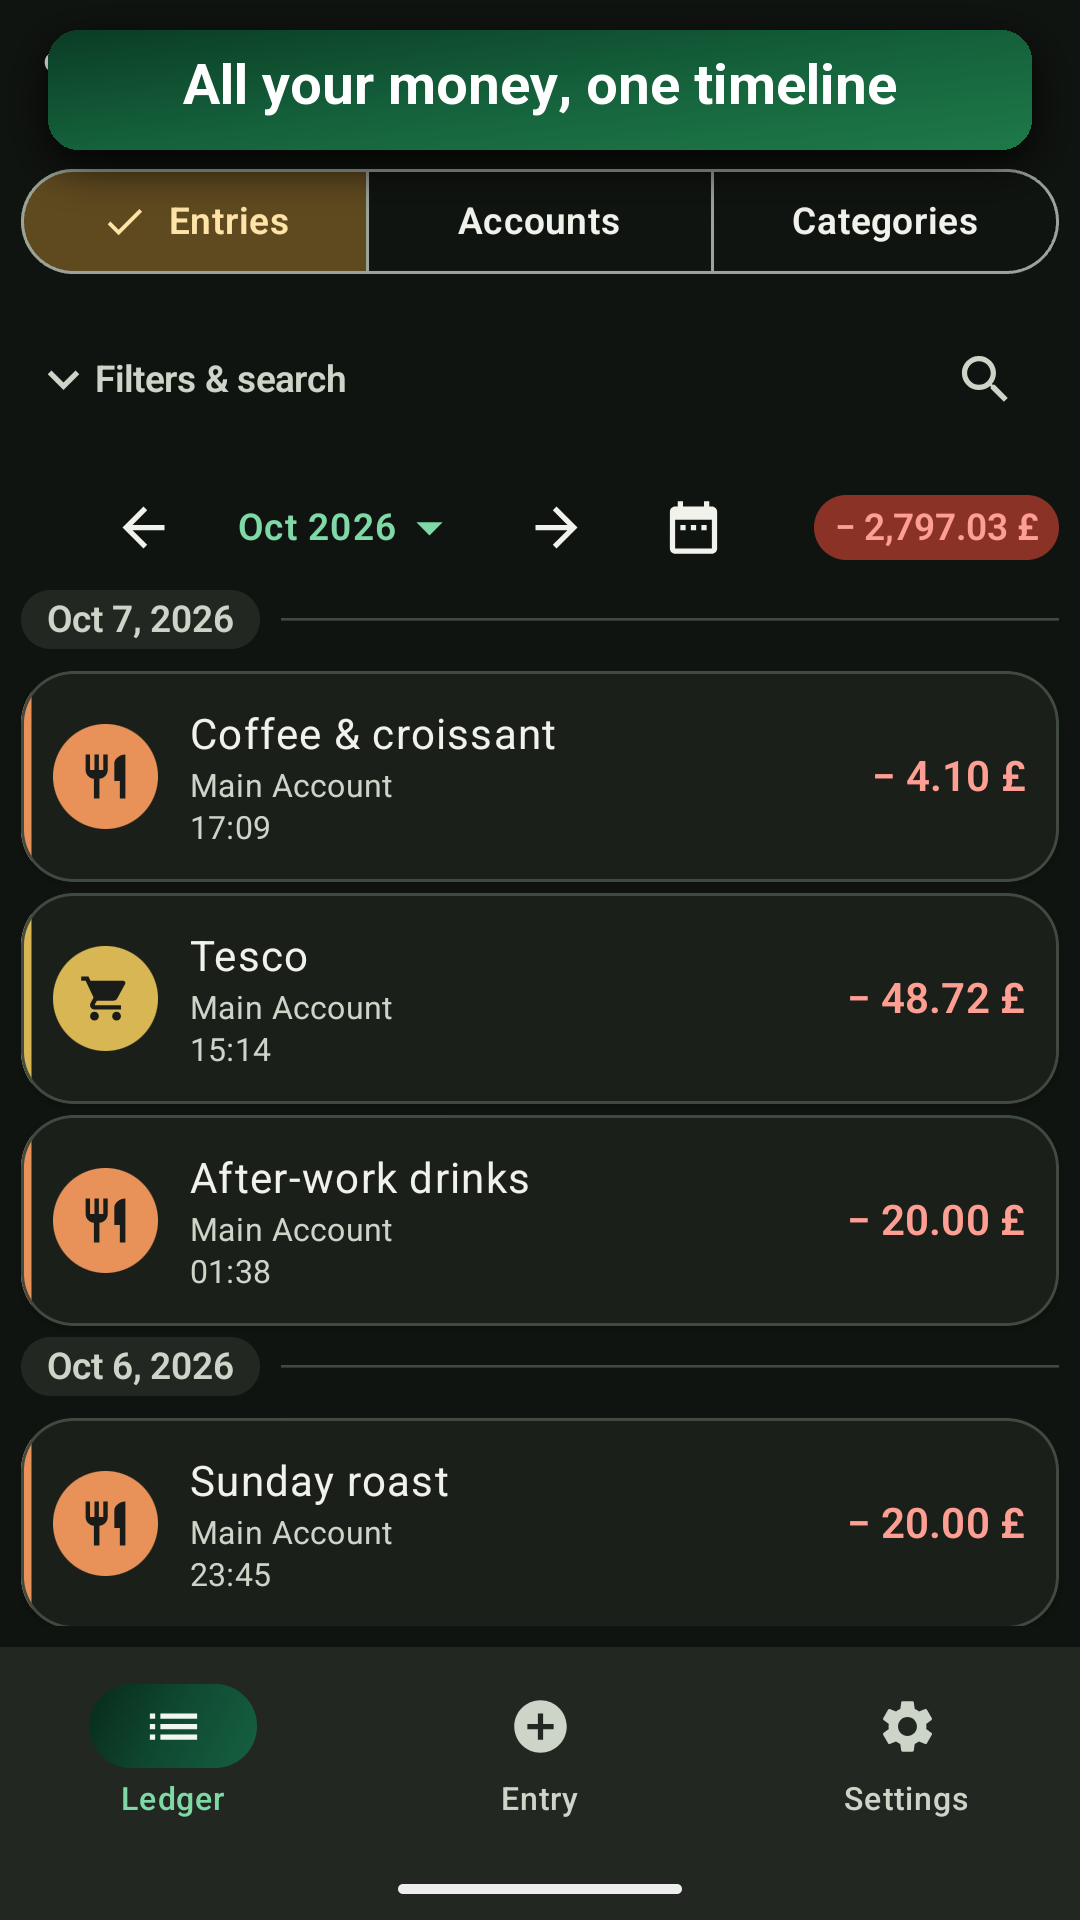
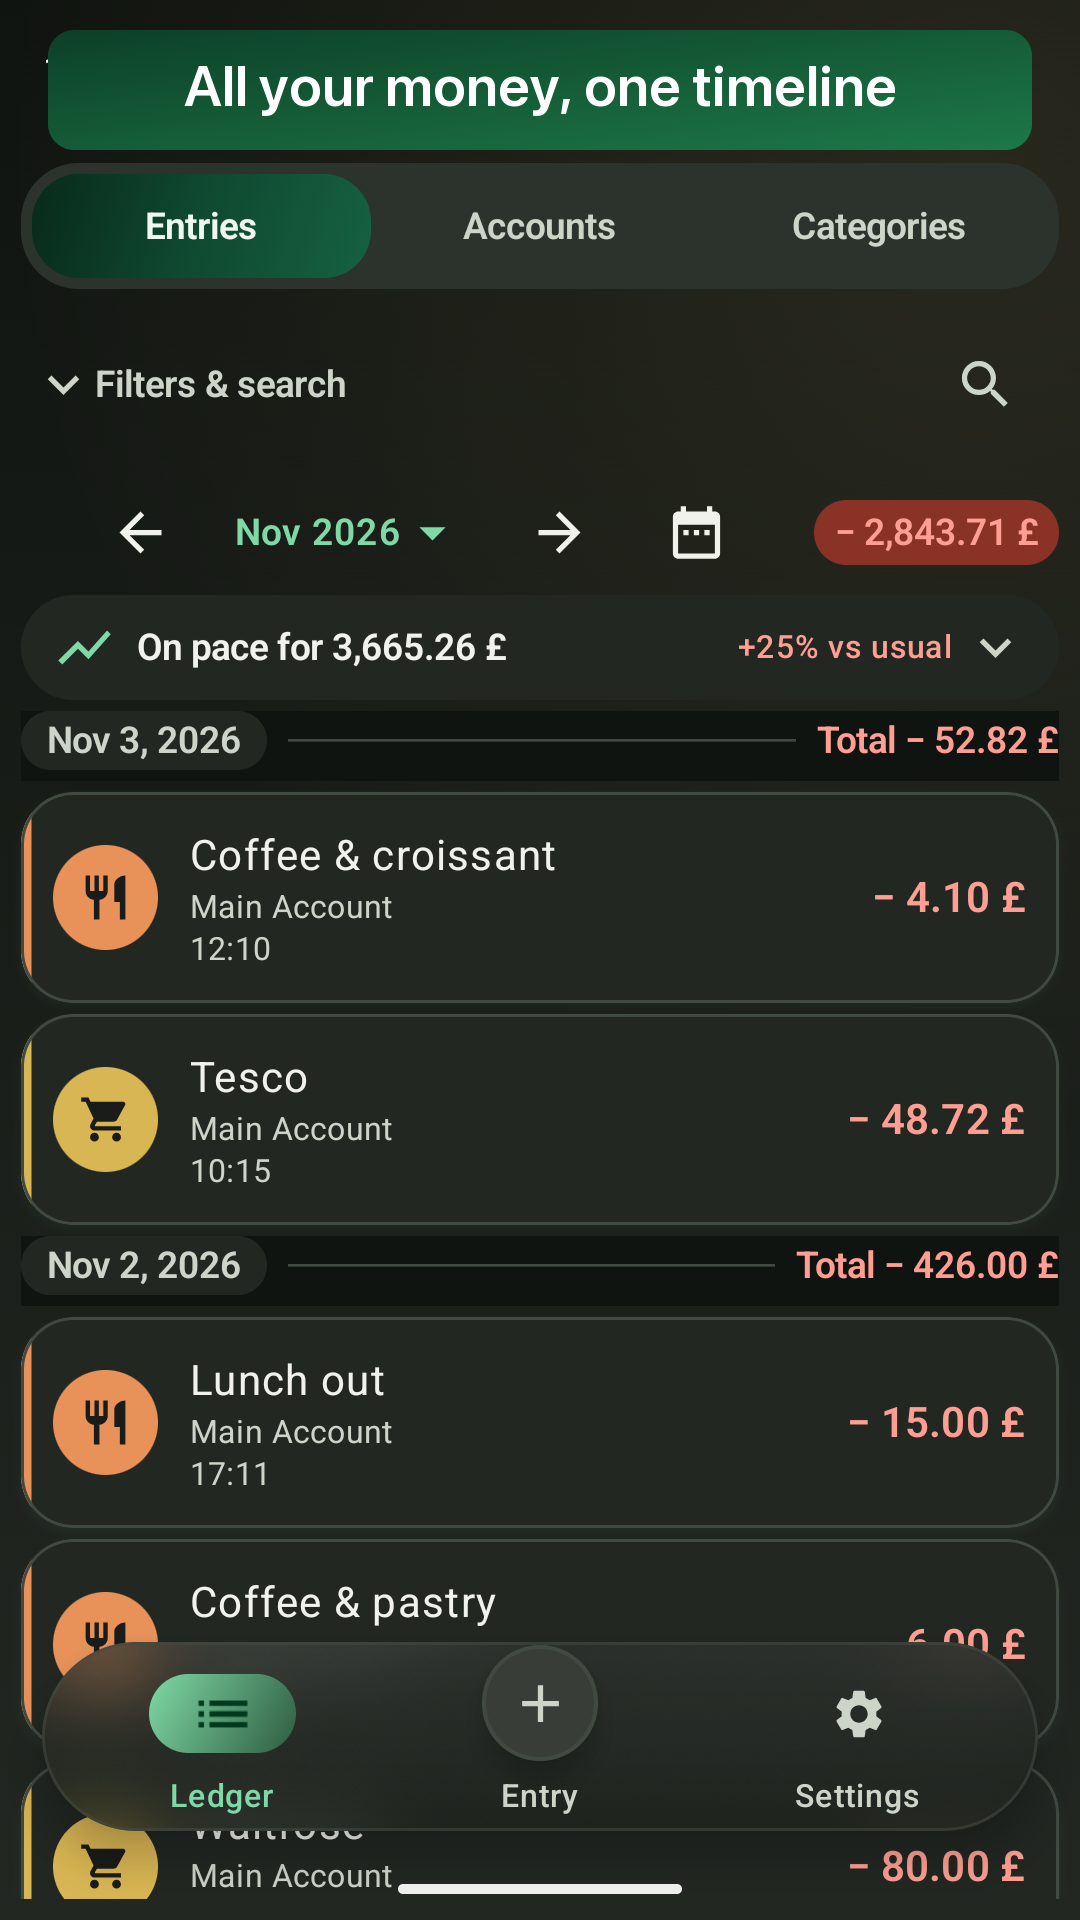
docs(store): refresh screenshots and add payment capture shot

diff --git a/scripts/store-captions.py b/scripts/store-captions.py
@@ -1,0 +1,136 @@
+#!/usr/bin/env python3
+"""Overlay the Play Store caption strip on raw 1080x1920 Linden screenshots.
+
+Capture the raw screens with `adb exec-out screencap -p`, name them as listed in
+CAPTIONS below, put them in one directory, then run:
+
+    python3 scripts/store-captions.py <raw-dir> [<out-dir>]
+
+The output defaults to docs/store-assets/screenshots. Requires Pillow.
+"""
+import argparse
+import os
+import sys
+
+from PIL import Image, ImageDraw, ImageFont
+
+CAPTIONS = {
+    "screen-1-ledger-entries.png": "All your money, one timeline",
+    "screen-2-payment-capture.png": "Automatic payment capture",
+    "screen-3-entry-calculator.png": "Add entries in seconds",
+    "screen-4-ledger-accounts.png": "Track accounts in any currency",
+    "screen-5-ledger-categories.png": "Know where it goes",
+    "screen-6-insights.png": "12 months at a glance",
+}
+
+WIDTH, HEIGHT = 1080, 1920
+LEFT, TOP, BOX_WIDTH, BOX_HEIGHT, RADIUS = 48, 30, 984, 120, 26
+TEXT_SIZE = 57
+SAMPLE_SCALE = 4
+GRADIENT_START = (12, 64, 39)
+GRADIENT_END = (29, 120, 72)
+
+
+def load_font(size):
+    candidates = [
+        ("/System/Library/Fonts/SFNS.ttf", None, "Semibold"),
+        ("/System/Library/Fonts/HelveticaNeue.ttc", 1, None),
+        ("/System/Library/Fonts/Helvetica.ttc", 1, None),
+        ("/usr/share/fonts/truetype/dejavu/DejaVuSans-Bold.ttf", None, None),
+        ("/System/Library/Fonts/Supplemental/Arial Bold.ttf", None, None),
+    ]
+    for path, index, variation in candidates:
+        if not os.path.exists(path):
+            continue
+        font = ImageFont.truetype(path, size, index=index or 0)
+        if variation:
+            try:
+                font.set_variation_by_name(variation)
+            except OSError:
+                pass
+        return font
+    return ImageFont.load_default(size)
+
+
+def lerp(a, b, t):
+    return tuple(round(a[i] + (b[i] - a[i]) * t) for i in range(3))
+
+
+def build_gradient():
+    gradient = Image.new("RGB", (BOX_WIDTH, BOX_HEIGHT))
+    pixels = gradient.load()
+    for y in range(BOX_HEIGHT):
+        for x in range(BOX_WIDTH):
+            t = (x / (BOX_WIDTH - 1) + y / (BOX_HEIGHT - 1)) / 2
+            pixels[x, y] = lerp(GRADIENT_START, GRADIENT_END, t)
+    return gradient
+
+
+def build_mask():
+    mask = Image.new("L", (BOX_WIDTH * SAMPLE_SCALE, BOX_HEIGHT * SAMPLE_SCALE), 0)
+    ImageDraw.Draw(mask).rounded_rectangle(
+        (0, 0, BOX_WIDTH * SAMPLE_SCALE - 1, BOX_HEIGHT * SAMPLE_SCALE - 1),
+        radius=RADIUS * SAMPLE_SCALE,
+        fill=255,
+    )
+    return mask.resize((BOX_WIDTH, BOX_HEIGHT), Image.LANCZOS)
+
+
+def copy_background_over_status_icons(image):
+    """The caption covers the status bar; clean up any pixel peeking out beside it."""
+    pixels = image.load()
+    for y in range(TOP, TOP + BOX_HEIGHT):
+        for x in list(range(LEFT)) + list(range(LEFT + BOX_WIDTH, WIDTH)):
+            red, green, blue = pixels[x, y]
+            if red > 120 and green > 120 and blue > 120:
+                source = LEFT - 1 if x < LEFT else LEFT + BOX_WIDTH
+                pixels[x, y] = pixels[source, y]
+
+
+def overlay(raw_path, out_path, font, gradient, mask):
+    image = Image.open(raw_path).convert("RGB")
+    if image.size != (WIDTH, HEIGHT):
+        raise SystemExit(f"{raw_path}: expected {WIDTH}x{HEIGHT}, got {image.size[0]}x{image.size[1]}")
+
+    copy_background_over_status_icons(image)
+    image.paste(gradient, (LEFT, TOP), mask)
+
+    draw = ImageDraw.Draw(image)
+    caption = CAPTIONS[os.path.basename(raw_path)]
+    bbox = draw.textbbox((0, 0), caption, font=font)
+    if bbox[2] - bbox[0] > BOX_WIDTH - 56:
+        raise SystemExit(f"{caption!r} is too wide for the caption strip")
+    x = LEFT + BOX_WIDTH / 2 - (bbox[0] + bbox[2]) / 2
+    y = TOP + BOX_HEIGHT / 2 - (bbox[1] + bbox[3]) / 2 + 1
+    draw.text((x, y), caption, font=font, fill=(255, 255, 255))
+
+    image.save(out_path, format="PNG", optimize=True)
+    print(f"{out_path} ({image.size[0]}x{image.size[1]}, RGB)")
+
+
+def main():
+    parser = argparse.ArgumentParser(description=__doc__)
+    parser.add_argument("raw_dir", help="directory containing the raw screen captures")
+    parser.add_argument("out_dir", nargs="?", default="docs/store-assets/screenshots",
+                        help="output directory (default: docs/store-assets/screenshots)")
+    args = parser.parse_args()
+
+    os.makedirs(args.out_dir, exist_ok=True)
+    font = load_font(TEXT_SIZE)
+    gradient = build_gradient()
+    mask = build_mask()
+
+    missing = 0
+    for name in CAPTIONS:
+        raw_path = os.path.join(args.raw_dir, name)
+        if not os.path.exists(raw_path):
+            print(f"missing: {raw_path}", file=sys.stderr)
+            missing += 1
+            continue
+        overlay(raw_path, os.path.join(args.out_dir, name), font, gradient, mask)
+    if missing:
+        raise SystemExit(f"{missing} raw screenshot(s) missing")
+
+
+if __name__ == "__main__":
+    main()

diff --git a/scripts/linden-seed-demo.py b/scripts/linden-seed-demo.py
@@ -7,8 +7,13 @@ the USD pot), US trips, a December bonus and the occasional reverse conversion.
 
 Idempotent: re-running replaces all rows. No backups are made (caller keeps copies).
 Nothing is ever dated after "now", so the app never enters its hidden-future state.
+
+Pass --capture-demo to also seed a pending Monzo payment and pin the dark theme;
+that is the state used for the Play Store screenshot set.
 """
+import argparse
 import datetime as dt
+import json
 import os
 import random
 import sqlite3
@@ -318,7 +323,35 @@ def build():
 
 
 # ------------------------------------------------------------------- insert --
+def seed_capture_demo(cur):
+    """Add one reviewable Monzo payment and the dark theme used for screenshots."""
+    captured = NOW.replace(hour=8, minute=12, second=0, microsecond=0)
+    rule = [{"packageName": "com.monzo.android", "accountId": MAIN, "enabled": True}]
+    pending = [{
+        "id": 1,
+        "packageName": "com.monzo.android",
+        "amountMinor": cents(8.45),
+        "currency": None,
+        "description": "Pret A Manger",
+        "type": "Expense",
+        "capturedAtMillis": int(captured.timestamp() * 1000),
+        "capturedAtZoneId": "Europe/London",
+    }]
+    for key, value in {
+        "captureRules": json.dumps(rule),
+        "pendingCaptures": json.dumps(pending),
+        "captureSeenId": "0",
+        "theme": "DARK",
+    }.items():
+        cur.execute("INSERT OR REPLACE INTO AppSettingsEntity (key, value) VALUES (?, ?)",
+                    (key, value))
+
+
 def main():
+    parser = argparse.ArgumentParser(description=__doc__)
+    parser.add_argument("--capture-demo", action="store_true",
+                        help="seed a pending payment capture and the dark theme")
+    args = parser.parse_args()
     build()
     # Safety net: never store anything after "now".
     now_ms = int(NOW.timestamp() * 1000)
@@ -354,6 +387,8 @@ def main():
                        ("hideLedgerTotal", "false"), ("hideEntryTotal", "false")]:
         cur.execute("INSERT OR REPLACE INTO AppSettingsEntity (key, value) VALUES (?, ?)",
                     (key, value))
+    if args.capture_demo:
+        seed_capture_demo(cur)
 
     # FX rates: GBP base (the default currency). Fresh fetchedAt so startup does
     # not try to refresh and risk a warning banner mid-screenshot.

diff --git a/docs/store-assets/README.md b/docs/store-assets/README.md
@@ -48,11 +48,21 @@ The committed set (`screenshots/`, 1080 × 1920, 24-bit PNG without alpha). Each
 carries its caption as an overlay:
 
 1. `screen-1-ledger-entries.png` — Ledger entries — "All your money, one timeline"
-2. `screen-2-entry-calculator.png` — amount calculator — "Add entries in seconds"
-3. `screen-3-ledger-accounts.png` — accounts and currencies — "Track accounts in any currency"
-4. `screen-4-ledger-categories.png` — category totals — "Know where it goes"
-5. `screen-5-insights.png` — 12-month trend — "12 months at a glance"
+2. `screen-2-payment-capture.png` — captured payment — "Automatic payment capture"
+3. `screen-3-entry-calculator.png` — amount calculator — "Add entries in seconds"
+4. `screen-4-ledger-accounts.png` — accounts and currencies — "Track accounts in any currency"
+5. `screen-5-ledger-categories.png` — category totals — "Know where it goes"
+6. `screen-6-insights.png` — 12-month trend — "12 months at a glance"
 
-Regenerate: seed the demo database with `scripts/linden-seed-demo.py` (writes
-`~/.linden/linden.db` — back up the real one first), install the debug APK on a
+Regenerate: seed the demo database with `scripts/linden-seed-demo.py --capture-demo`
+(writes `~/.linden/linden.db` — back up the real one first), install the debug APK on a
 16:9 emulator, then capture with `adb exec-out screencap -p > shot.png`.
+
+Name the raw captures as above, put them in one directory, and overlay the captions:
+
+```bash
+python3 scripts/store-captions.py <raw-dir> docs/store-assets/screenshots
+```
+
+The payment-capture shot expects a launcher app with package `com.monzo.android`
+(label "Monzo"); without one the capture row falls back to the package name.

diff --git a/RELEASING.md b/RELEASING.md
@@ -105,7 +105,8 @@ overlay captions:
 | File | Caption |
 |---|---|
 | `screen-1-ledger-entries.png` | All your money, one timeline |
-| `screen-2-entry-calculator.png` | Add entries in seconds |
-| `screen-3-ledger-accounts.png` | Track accounts in any currency |
-| `screen-4-ledger-categories.png` | Know where it goes |
-| `screen-5-insights.png` | 12 months at a glance |
+| `screen-2-payment-capture.png` | Automatic payment capture |
+| `screen-3-entry-calculator.png` | Add entries in seconds |
+| `screen-4-ledger-accounts.png` | Track accounts in any currency |
+| `screen-5-ledger-categories.png` | Know where it goes |
+| `screen-6-insights.png` | 12 months at a glance |
